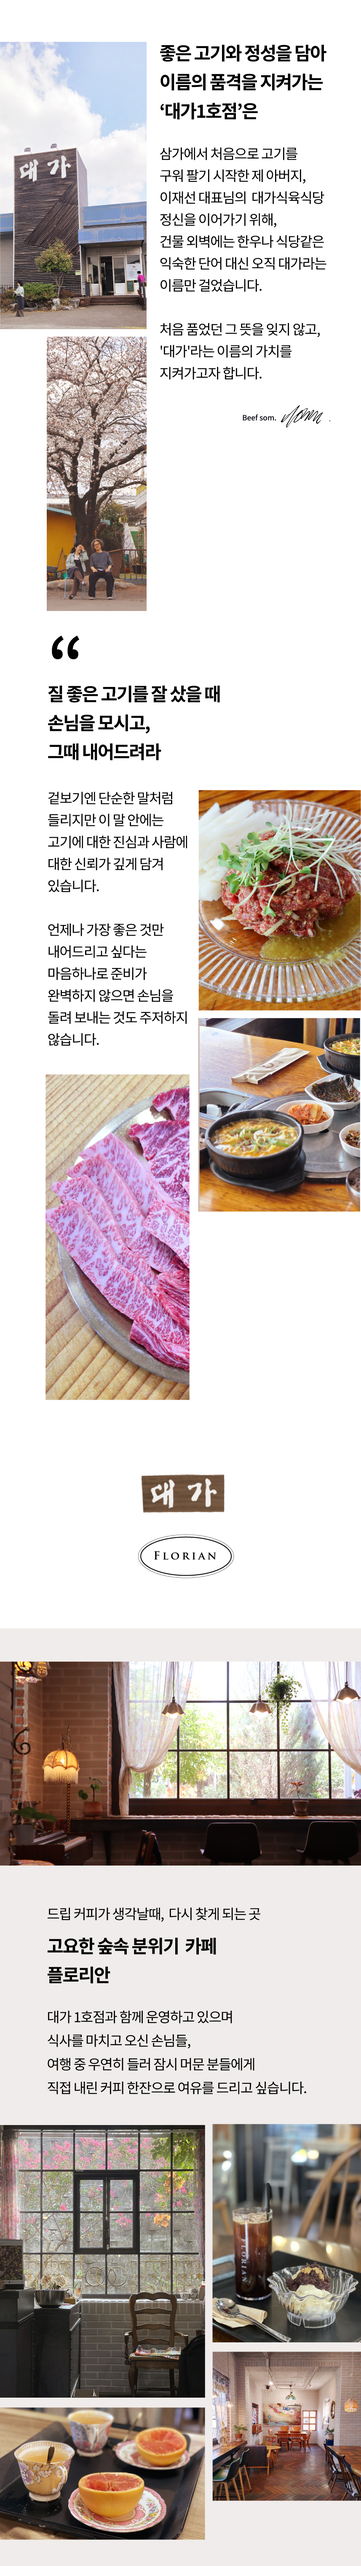
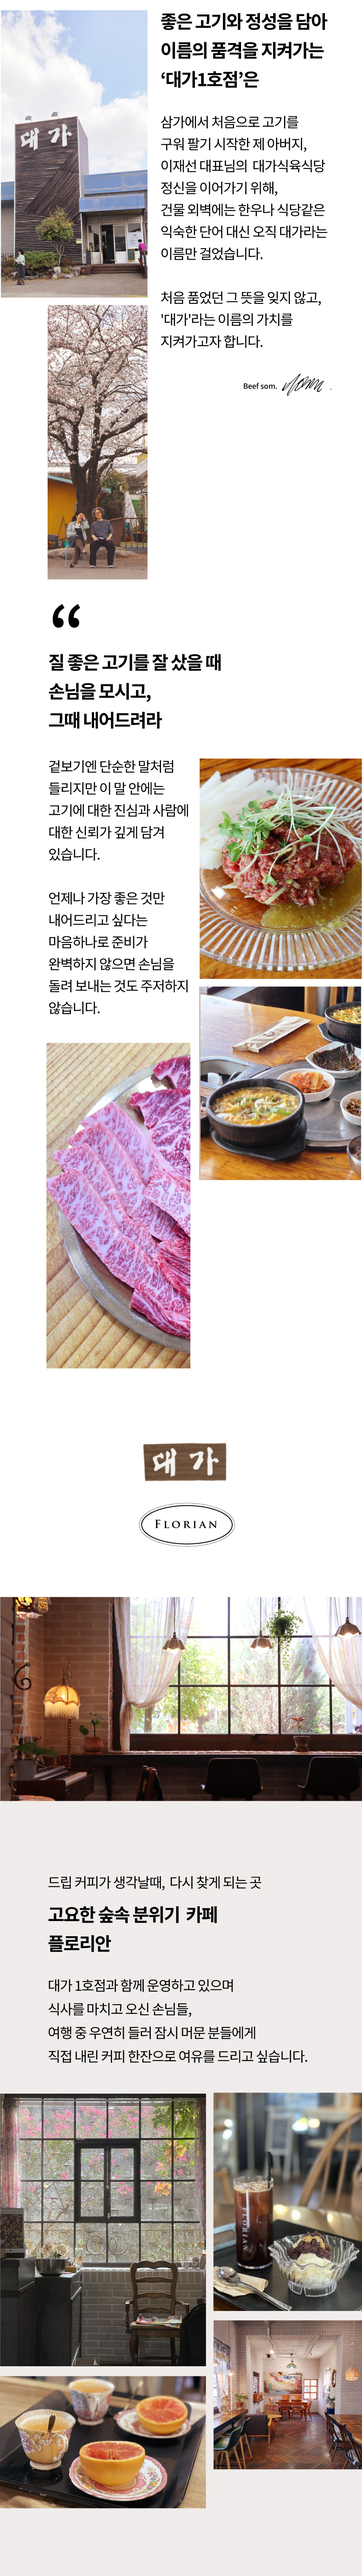
border다 뺏다구리구리   퐁퐁

diff --git a/src/components/store/storeDetail.css b/src/components/store/storeDetail.css
@@ -1150,11 +1150,10 @@
 }
 
 .store-images .store-tab-image {
-  width: 280px;
-  height: 200px;
-  object-fit: contain; /* 이미지 전체가 보이게 */
+  width: 360px;
+  height: 400px;
+  object-fit: cover; /* 이미지 전체가 보이게 */
   background-color: #a8a8a8; /* 원하는 컬러로 채움 */
-  border-radius: 10px;
   cursor: pointer;
 }
 
@@ -1190,7 +1189,7 @@
 
 .store-review-card {
   border: 1px solid #ccc;
-  border-radius: 10px;
+  /* border-radius: 10px; */
   padding: 16px;
   background-color: #fff;
 }
@@ -1318,7 +1317,7 @@
 /* ✅ 기본 리뷰 박스 */
 .review-placeholder {
   background: #f8f8f8;
-  border-radius: 12px;
+  /* border-radius: 12px; */
   padding: 40px 20px;
   margin-top: 20px;
   color: #666;
@@ -1390,7 +1389,7 @@
   width: 100%;
   max-width: 500px;
   height: auto;
-  border-radius: 12px;
+  /* border-radius: 12px; */
   box-shadow: 0 4px 20px rgba(0, 0, 0, 0.3);
 }
 
@@ -1499,7 +1498,7 @@
   }
 
   .store-detail-top-wrapper {
-    padding: 40px 20px;
+    padding: 40px 0px;
     min-height: 200px;
     /* ✅ 공간 확보 */
   }
@@ -1508,7 +1507,8 @@
     display: flex;
     justify-content: space-between;
     /* gap: 12px; */
-    margin-bottom: 30px;
+    margin: 0 20px 30px;
+    
   }
 
   .tab-button {
@@ -1517,7 +1517,7 @@
     border: none;
     background-color: #fff;
     color: #333;
-    border-radius: 20px;
+    /* border-radius: 20px; */
     cursor: pointer;
     transition: 0.2s;
     border: 1px solid #ccc;

diff --git a/src/components/storefilterpage.css b/src/components/storefilterpage.css
@@ -151,7 +151,7 @@
 
 .mobile-store-item {
   background: #fff;
-  border-radius: 12px;
+  /* border-radius: 12px; */
   box-shadow: 0 1px 4px rgba(0, 0, 0, 0.1);
   padding: 12px;
   margin-bottom: 12px;
@@ -167,7 +167,7 @@
 .m-store-thumbnail {
   width: 90px;
   height: 90px;
-  border-radius: 8px;
+  /* border-radius: 8px; */
   object-fit: cover;
   flex-shrink: 0;
 }
@@ -244,7 +244,7 @@
   width: 90%;
   max-width: 320px;
   background: #fff;
-  border-radius: 12px;
+  /* border-radius: 12px; */
   padding: 16px;
   box-shadow: 0 2px 12px rgba(0, 0, 0, 0.3);
   z-index: 1000;
@@ -412,7 +412,7 @@
   display: flex;
   flex-direction: column;
   background: #fff;
-  border-radius: 12px;
+  /* border-radius: 12px; */
   box-shadow: 0 2px 8px rgba(0, 0, 0, 0.1);
   padding: 16px;
   margin-bottom: 16px;
@@ -428,7 +428,7 @@
 .store-thumbnail {
   width: 230px;
   height: 180px;
-  border-radius: 8px;
+  /* border-radius: 8px; */
   object-fit: cover;
   flex-shrink: 0;
 }
